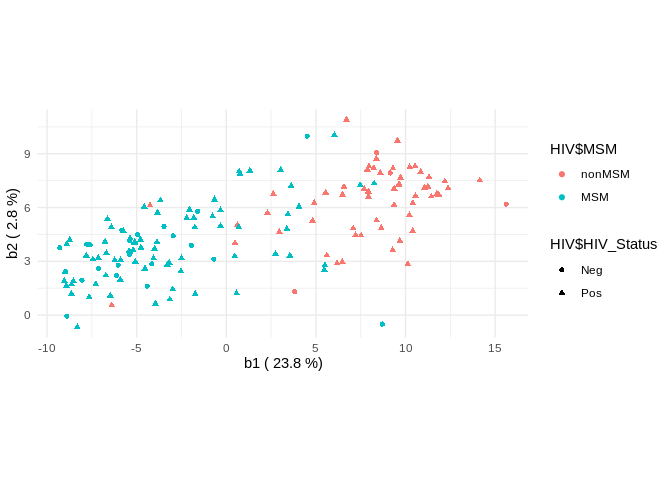
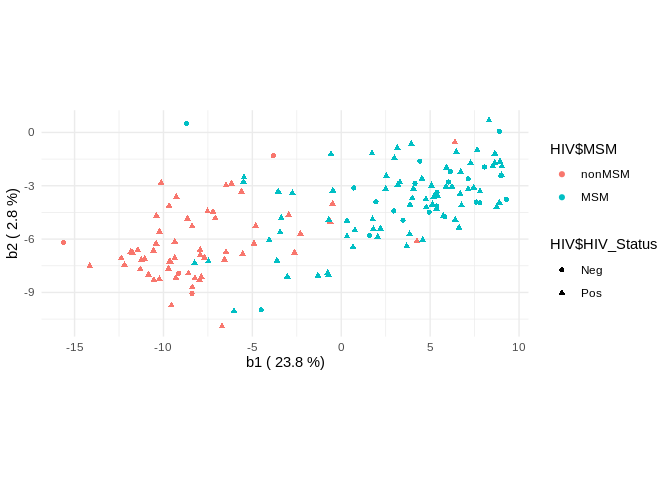
nb_mean_shift

diff --git a/README.md b/README.md
@@ -33,6 +33,7 @@ library(zCompositions)
 #> 
 #>     cor
 #> Loading required package: truncnorm
+library(reshape2)
 library(selbal)
 test_data <- selbal::HIV[1:60]
 abundance <- cmultRepl(test_data)
@@ -52,23 +53,6 @@ plot_nb_pca(nb_1, colour = HIV$MSM, pch = HIV$HIV_Status)
 # first principal balance
 nb_1$nb$b1
 #> $num
-#>  [1] "g_Alistipes"                         
-#>  [2] "g_Barnesiella"                       
-#>  [3] "g_Bacteroides"                       
-#>  [4] "g_Odoribacter"                       
-#>  [5] "g_Parabacteroides"                   
-#>  [6] "f_Porphyromonadaceae_g_unclassified" 
-#>  [7] "g_Thalassospira"                     
-#>  [8] "g_Butyricimonas"                     
-#>  [9] "g_Anaerostipes"                      
-#> [10] "g_Paraprevotella"                    
-#> [11] "f_Erysipelotrichaceae_g_unclassified"
-#> [12] "g_Streptococcus"                     
-#> [13] "g_Bifidobacterium"                   
-#> [14] "g_Blautia"                           
-#> [15] "g_Collinsella"                       
-#> 
-#> $den
 #>  [1] "g_Alloprevotella"                      
 #>  [2] "g_RC9_gut_group"                       
 #>  [3] "g_Prevotella"                          
@@ -88,7 +72,24 @@ nb_1$nb$b1
 #> [17] "g_Anaerotruncus"                       
 #> [18] "g_Megasphaera"                         
 #> [19] "g_Phascolarctobacterium"               
-#> [20] "g_Mitsuokella"
+#> [20] "g_Mitsuokella"                         
+#> 
+#> $den
+#>  [1] "g_Alistipes"                         
+#>  [2] "g_Barnesiella"                       
+#>  [3] "g_Bacteroides"                       
+#>  [4] "g_Odoribacter"                       
+#>  [5] "g_Parabacteroides"                   
+#>  [6] "f_Porphyromonadaceae_g_unclassified" 
+#>  [7] "g_Thalassospira"                     
+#>  [8] "g_Butyricimonas"                     
+#>  [9] "g_Anaerostipes"                      
+#> [10] "g_Paraprevotella"                    
+#> [11] "f_Erysipelotrichaceae_g_unclassified"
+#> [12] "g_Streptococcus"                     
+#> [13] "g_Bifidobacterium"                   
+#> [14] "g_Blautia"                           
+#> [15] "g_Collinsella"
 ```
 
 ## Regression analysis
@@ -159,41 +160,34 @@ The nearest balance for the discriminating direction
 nb_3$nb$b1
 #> $num
 #>  [1] "f_Ruminococcaceae_g_unclassified"    
-#>  [2] "g_Bacteroides"                       
-#>  [3] "f_Erysipelotrichaceae_g_unclassified"
-#>  [4] "g_Subdoligranulum"                   
+#>  [2] "f_Erysipelotrichaceae_g_unclassified"
+#>  [3] "g_Bacteroides"                       
+#>  [4] "g_Alistipes"                         
 #>  [5] "g_Megasphaera"                       
-#>  [6] "g_Succinivibrio"                     
+#>  [6] "g_Subdoligranulum"                   
 #>  [7] "g_Alloprevotella"                    
-#>  [8] "o_Clostridiales_g_unclassified"      
-#>  [9] "g_Alistipes"                         
-#> [10] "g_Blautia"                           
+#>  [8] "g_Succinivibrio"                     
+#>  [9] "o_Clostridiales_g_unclassified"      
+#> [10] "g_Anaerovibrio"                      
 #> [11] "f_Rikenellaceae_g_unclassified"      
-#> [12] "g_Anaerovibrio"                      
-#> [13] "o_NB1-n_g_unclassified"              
-#> [14] "g_Lachnospira"                       
-#> [15] "f_Defluviitaleaceae_g_Incertae_Sedis"
+#> [12] "g_Blautia"                           
+#> [13] "f_Defluviitaleaceae_g_Incertae_Sedis"
+#> [14] "g_Escherichia-Shigella"              
+#> [15] "g_Bifidobacterium"                   
 #> [16] "f_Lachnospiraceae_g_Incertae_Sedis"  
-#> [17] "g_Odoribacter"                       
-#> [18] "g_Solobacterium"                     
-#> [19] "g_Anaerotruncus"                     
 #> 
 #> $den
-#>  [1] "f_Ruminococcaceae_g_Incertae_Sedis"      
-#>  [2] "g_Butyricimonas"                         
+#>  [1] "g_Butyricimonas"                         
+#>  [2] "f_Ruminococcaceae_g_Incertae_Sedis"      
 #>  [3] "g_Oribacterium"                          
-#>  [4] "g_Streptococcus"                         
-#>  [5] "g_Dorea"                                 
-#>  [6] "f_vadinBB60_g_unclassified"              
-#>  [7] "g_Brachyspira"                           
-#>  [8] "g_Dialister"                             
-#>  [9] "g_Coprococcus"                           
-#> [10] "g_RC9_gut_group"                         
-#> [11] "g_Anaeroplasma"                          
-#> [12] "g_Paraprevotella"                        
-#> [13] "g_Thalassospira"                         
-#> [14] "f_Peptostreptococcaceae_g_Incertae_Sedis"
-#> [15] "g_Acidaminococcus"
+#>  [4] "g_RC9_gut_group"                         
+#>  [5] "g_Streptococcus"                         
+#>  [6] "g_Anaeroplasma"                          
+#>  [7] "g_Dialister"                             
+#>  [8] "g_Dorea"                                 
+#>  [9] "f_Peptostreptococcaceae_g_Incertae_Sedis"
+#> [10] "g_Coprococcus"                           
+#> [11] "g_Paraprevotella"
 ```
 
 ## Interpretation of the LDA results
@@ -230,30 +224,76 @@ nb_4$nb$b1
 ## Interpretation of differences between two samples
 
 ``` r
-nb_5 <- nb_shift(abundance = abundance[,1:15],
-                 samp_1 = rownames(abundance)[1],
-                 samp_2 = rownames(abundance)[2],
-                 type = "two_balances")
+counts <- HFD[1:193]
+counts_filt <- counts[, colSums(counts > 0) > 0.5*nrow(counts)]
+abundance <- cmultRepl(counts_filt)
+#> No. corrected values:  866
+meta <- HFD[, c("sample_id", "subject_id", "group")]
+pairs <- dcast(meta, subject_id ~ group, value.var = "sample_id")
+
+nb_5 <- nb_shift(abundance = abundance,
+                 samp_1 = pairs$after[1],
+                 samp_2 = pairs$before[1])
 ```
 
-The nearest balance
+The nearest balance to the microbiome shift of the first subject
 
 ``` r
 nb_5$b1
 #> $num
-#> [1] "g_Succinivibrio"                       
-#> [2] "f_Erysipelotrichaceae_g_Incertae_Sedis"
+#> [1] "g__Butyricimonas"         "g__Veillonella"          
+#> [3] "g__Sutterella"            "g__Phascolarctobacterium"
+#> [5] "g__Odoribacter"           "g__Bacteroides"          
+#> [7] "f__[Barnesiellaceae];g__" "g__Parabacteroides"      
+#> [9] "f__Clostridiaceae;g__"   
 #> 
 #> $den
-#> [1] "g_Dorea"                            "g_Alloprevotella"                  
-#> [3] "f_Ruminococcaceae_g_unclassified"   "f_Lachnospiraceae_g_Incertae_Sedis"
-#> [5] "g_Lachnospira"                      "f_Lachnospiraceae_g_unclassified"  
-#> [7] "g_Blautia"
+#> [1] "f__Staphylococcaceae;g__" "g__Staphylococcus"       
+#> [3] "g__Prevotella"            "g__Dialister"            
+#> [5] "g__Streptococcus"         "o__RF39;f__;g__"
 ```
 
-Impacts of the balances
+Impact of the nearest balance in the total shift
 
 ``` r
 nb_5$impactsdthf
 #> NULL
+```
+
+Interpretation of the mean shift in the sample
+
+``` r
+nb <- nb_mean_shift(abundance, pairs$before, pairs$after, "two_balances")
+
+plot(nb$coord$b1, nb$coord$b2, col = as.factor(HFD$group), xlab = "b1", ylab = "b2")
+arrows(mean(nb$coord[pairs$before, "b1"]),
+  mean(nb$coord[pairs$before, "b2"]),
+  mean(nb$coord[pairs$before, "b1"]) + nb$nb$coord["b1"],
+  mean(nb$coord[pairs$before, "b2"]) + nb$nb$coord["b2"],
+  lwd =3)
+```
+
+<img src="man/figures/README-unnamed-chunk-7-1.png" width="100%" />
+Members of the nearest balance to the mean shift
+
+``` r
+nb$nb$b1
+#> $num
+#> [1] "g__Staphylococcus"        "g__Acinetobacter"        
+#> [3] "f__Staphylococcaceae;g__" "g__Actinomyces"          
+#> 
+#> $den
+#> [1] "g__Odoribacter"           "g__Butyricimonas"        
+#> [3] "g__Bacteroides"           "g__Sutterella"           
+#> [5] "g__Parabacteroides"       "f__[Barnesiellaceae];g__"
+#> [7] "g__Phascolarctobacterium" "f__Rikenellaceae;g__"    
+#> [9] "g__Lachnospira"
+```
+
+Impact
+
+``` r
+nb$nb$impacts
+#>        b1        b2 
+#> 0.8387473 0.1143482
 ```
